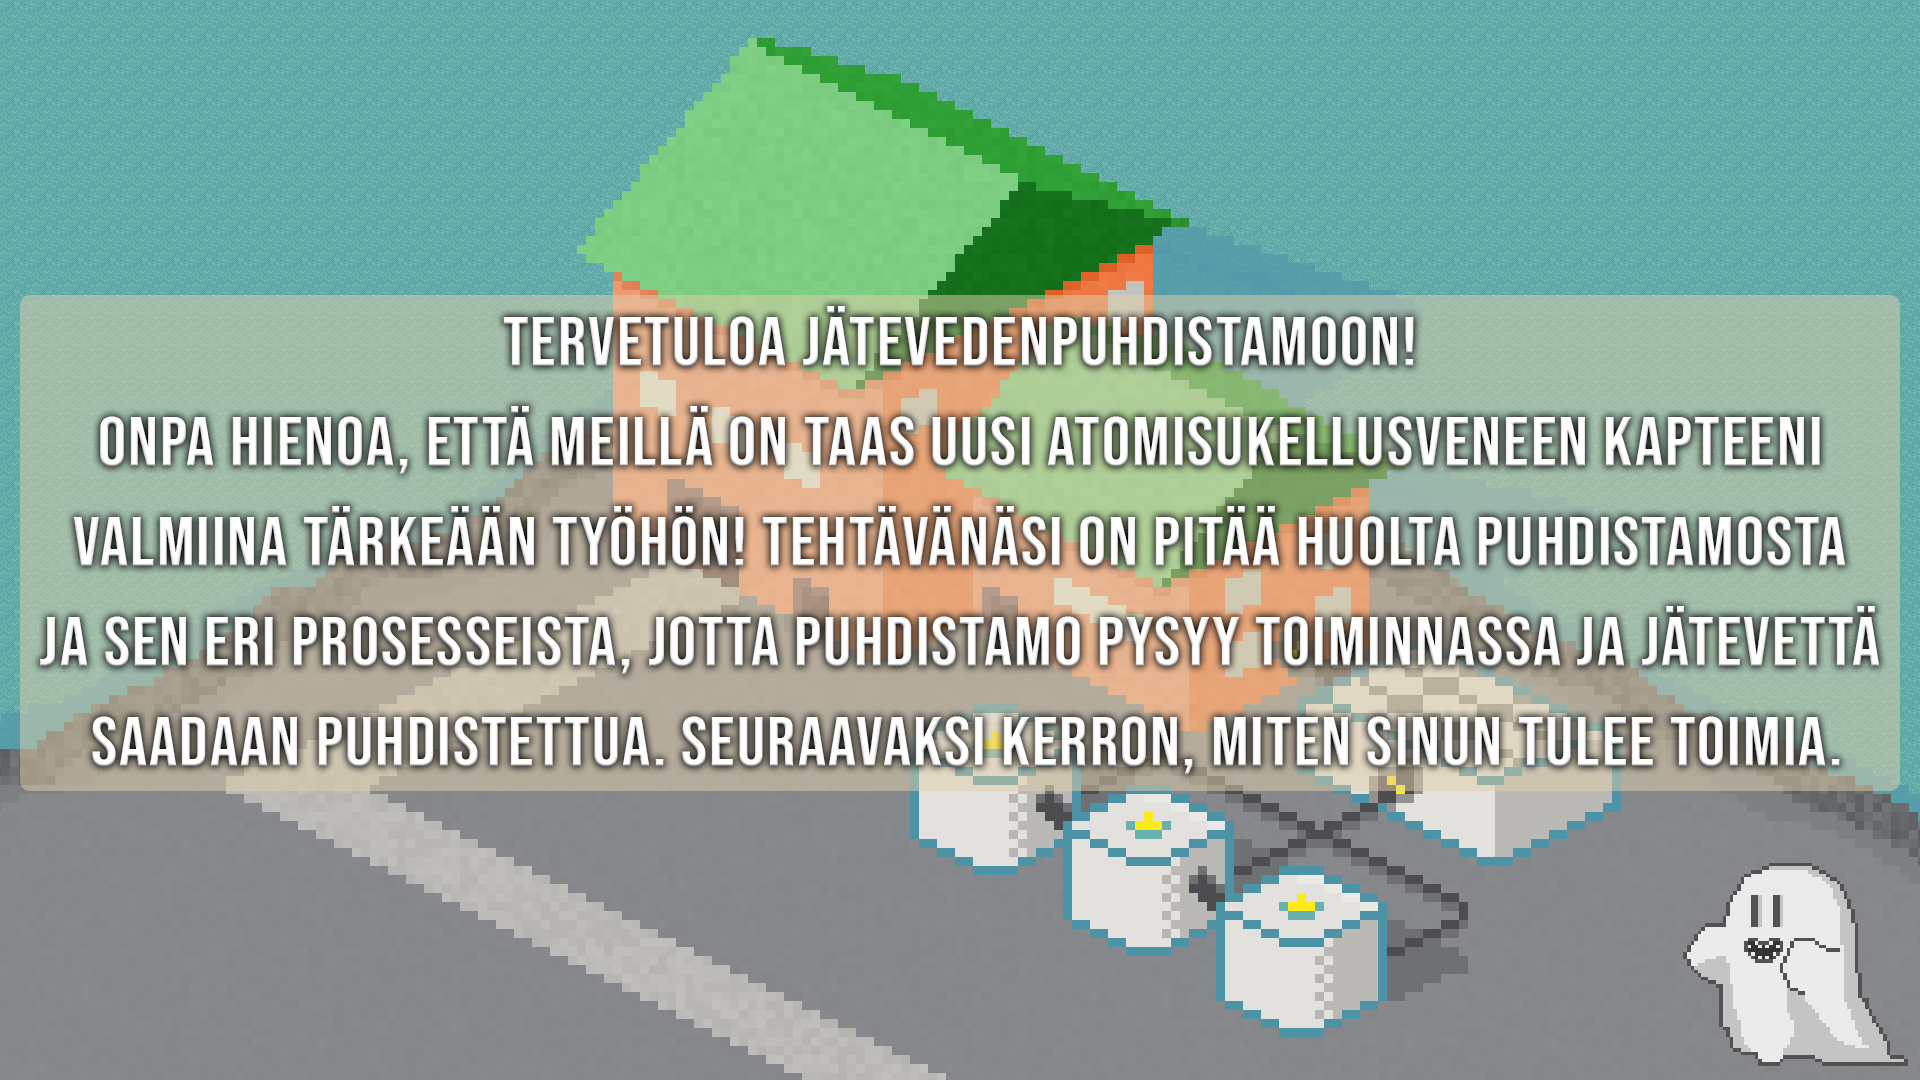
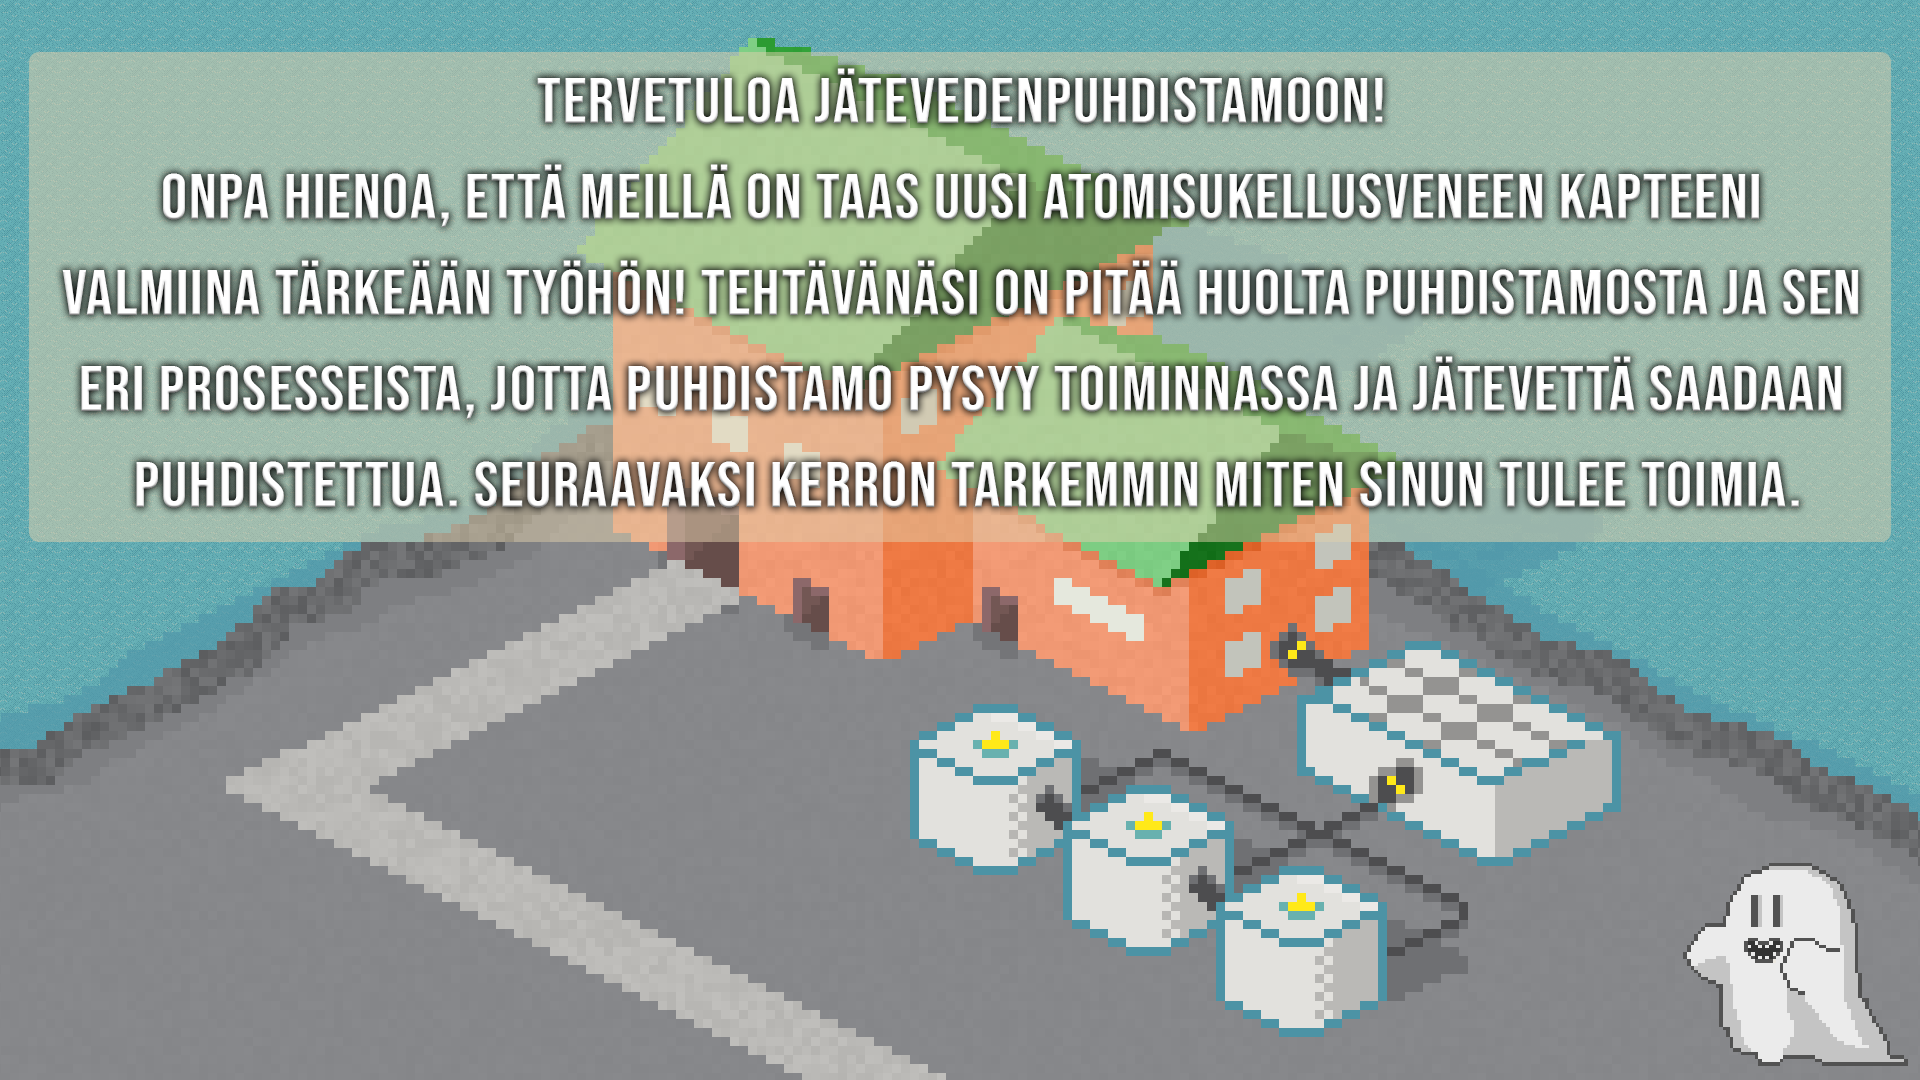
Tutorial screens.

diff --git a/core/src/fi/tuni/atomics/tutorialScreen.java b/core/src/fi/tuni/atomics/tutorialScreen.java
@@ -53,6 +53,18 @@ public class tutorialScreen implements Screen {
             if (tutorialScreenCounter == 1) {
                 background = new Texture(Localization.getBundle().get("tutorial2"));
                 tutorialScreenCounter++;
+            } else if (tutorialScreenCounter == 2) {
+                background = new Texture(Localization.getBundle().get("tutorial2"));
+                tutorialScreenCounter++;
+            } else if (tutorialScreenCounter == 3) {
+                background = new Texture(Localization.getBundle().get("tutorial3"));
+                tutorialScreenCounter++;
+            } else if (tutorialScreenCounter == 4) {
+                background = new Texture(Localization.getBundle().get("tutorial4"));
+                tutorialScreenCounter++;
+            } else if (tutorialScreenCounter == 5) {
+                background = new Texture(Localization.getBundle().get("tutorial5"));
+                tutorialScreenCounter++;
             } else {
                 atomics.setScreen(new PlayScreen(atomics));
             }
